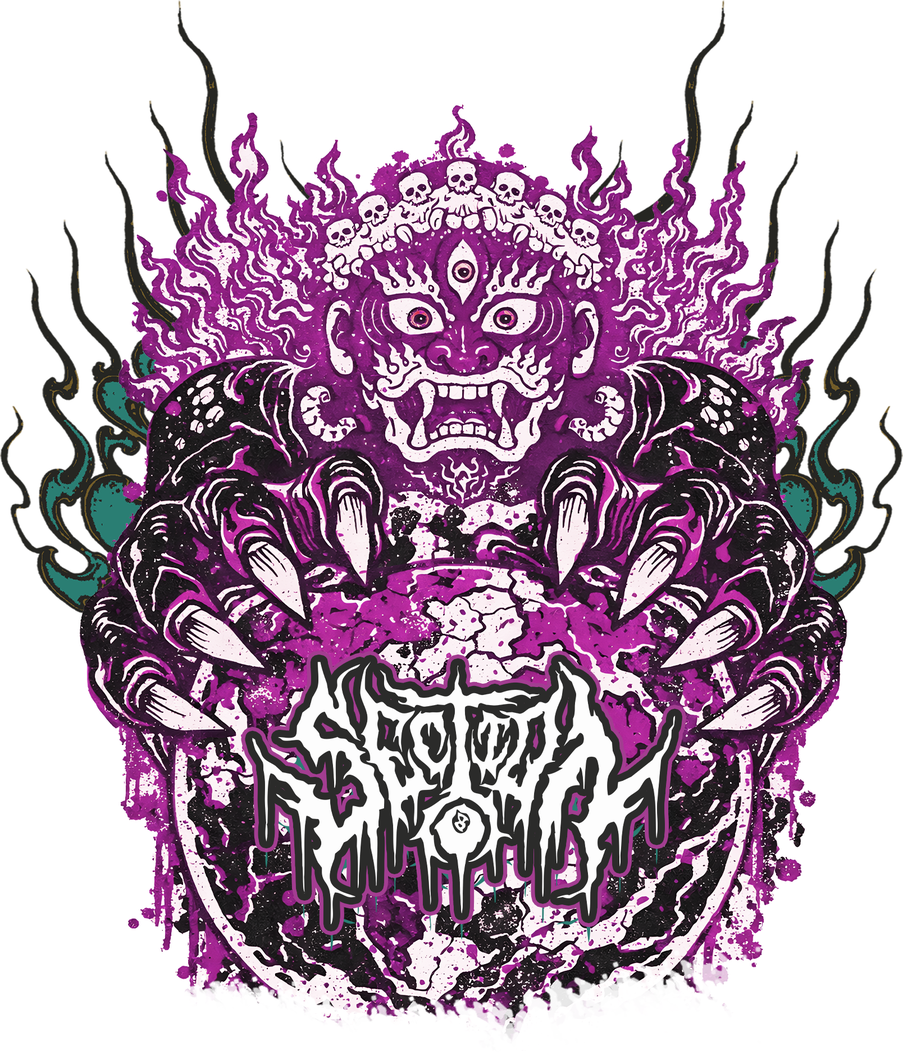
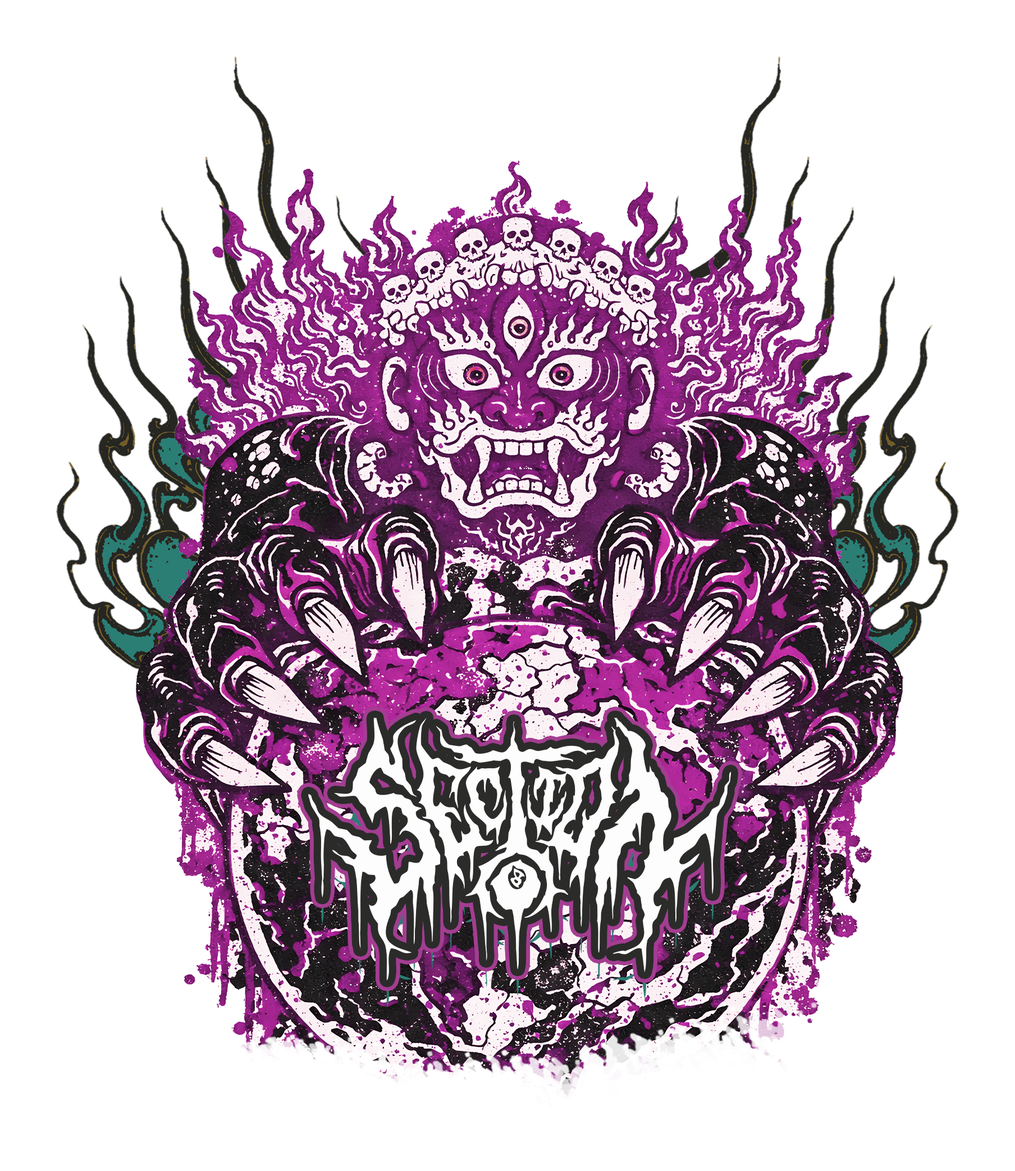
update

diff --git a/index.html b/index.html
@@ -133,7 +133,7 @@
 <body>
     <section class="hero-section vh-100 vw-100 d-flex flex-column">
         <div class="logo-container d-flex justify-content-center align-items-center p-3" style="flex: 0 0 auto;">
-            <div class="col-12 col-md-8 col-lg-6 col-xl-4 d-flex justify-content-center align-items-center">
+            <div class="col-12 col-md-10 col-lg-10 col-xl-5 d-flex justify-content-center align-items-center">
                 <img src="Assets/Logo.png" alt="Logo" class="img-fluid" style="object-fit: contain;">
             </div>
         </div>
@@ -143,7 +143,7 @@
             </div>
         </div>
         
-        <div class="lineup-container d-flex justify-content-center align-items-end" style="flex: 0 0 auto;">
+        <div class="lineup-container d-flex justify-content-center align-items-end p-3" style="flex: 0 0 auto;">
             <div class="col-12 col-md-10 col-lg-8">
                 <img src="Assets/Lineup.png" alt="Lineup" class="desktop-lineup img-fluid d-none d-md-block" style="max-height: 17.5vh; object-fit: contain;">
                 <img src="Assets/Lineup-Mobile.png" alt="Mobile Lineup" class="mobile-lineup img-fluid d-block d-md-none" style="max-height: 17.5vh; object-fit: contain;">
@@ -162,37 +162,37 @@
                 <div class="col-6 col-lg-4">
                     <div class="tour-date-card text-center">
                         <img src="Assets/TourDates_01.png" alt="Tour Date 1" class="img-fluid mb-3">
-                        <h5 class="tour-date-time">23:00</h5>
+                        <h5 class="tour-date-time">DOORS 23:00</h5>
                     </div>
                 </div>
                 <div class="col-6 col-lg-4">
                     <div class="tour-date-card text-center">
                         <img src="Assets/TourDates_02.png" alt="Tour Date 2" class="img-fluid mb-3">
-                        <h5 class="tour-date-time">18:00</h5>
+                        <h5 class="tour-date-time">DOORS 18:00</h5>
                     </div>
                 </div>
                 <div class="col-6 col-lg-4">
                     <div class="tour-date-card text-center">
                         <img src="Assets/TourDates_03.png" alt="Tour Date 3" class="img-fluid mb-3">
-                        <h5 class="tour-date-time">19:00</h5>
+                        <h5 class="tour-date-time">DOORS 19:00</h5>
                     </div>
                 </div>
                 <div class="col-6 col-lg-4">
                     <div class="tour-date-card text-center">
                         <img src="Assets/TourDates_04.png" alt="Tour Date 4" class="img-fluid mb-3">
-                        <h5 class="tour-date-time">19:00</h5>
+                        <h5 class="tour-date-time">DOORS 19:00</h5>
                     </div>
                 </div>
                 <div class="col-6 col-lg-4">
                     <div class="tour-date-card text-center">
                         <img src="Assets/TourDates_05.png" alt="Tour Date 5" class="img-fluid mb-3">
-                        <h5 class="tour-date-time">19:00</h5>
+                        <h5 class="tour-date-time">DOORS 19:00</h5>
                     </div>
                 </div>
                 <div class="col-6 col-lg-4">
                     <div class="tour-date-card text-center">
                         <img src="Assets/TourDates_06.png" alt="Tour Date 6" class="img-fluid mb-3">
-                        <h5 class="tour-date-time">19:00</h5>
+                        <h5 class="tour-date-time">DOORS 19:00</h5>
                     </div>
                 </div>
             </div>
